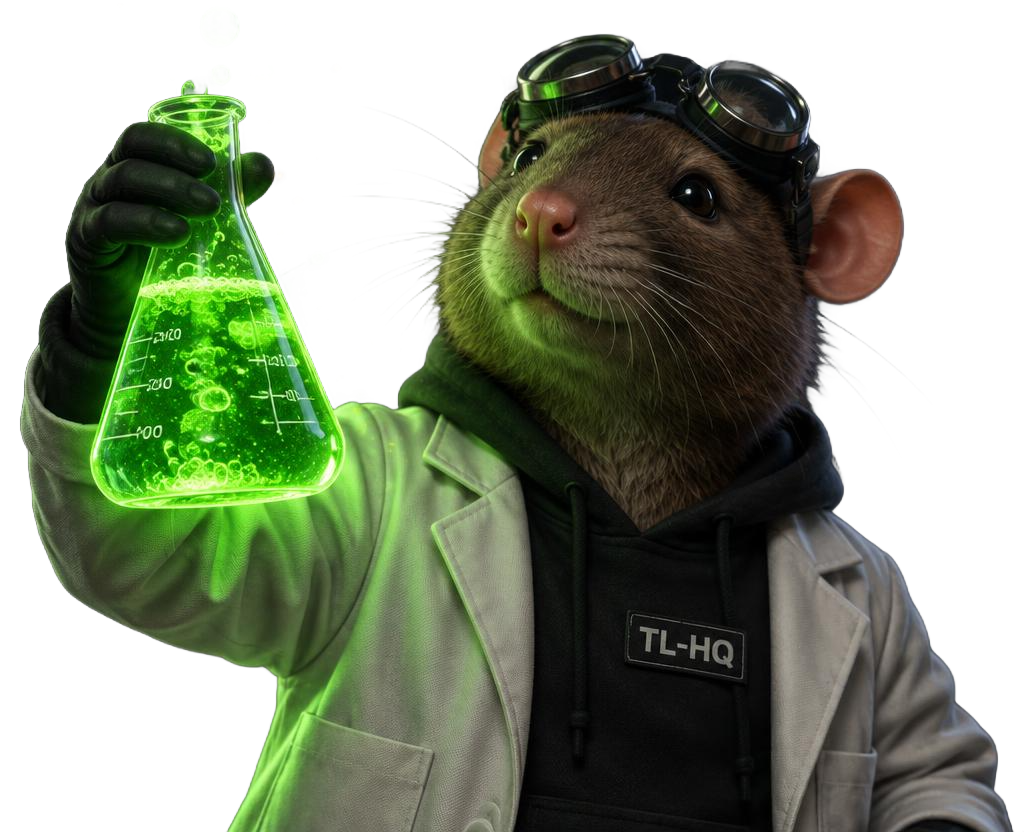
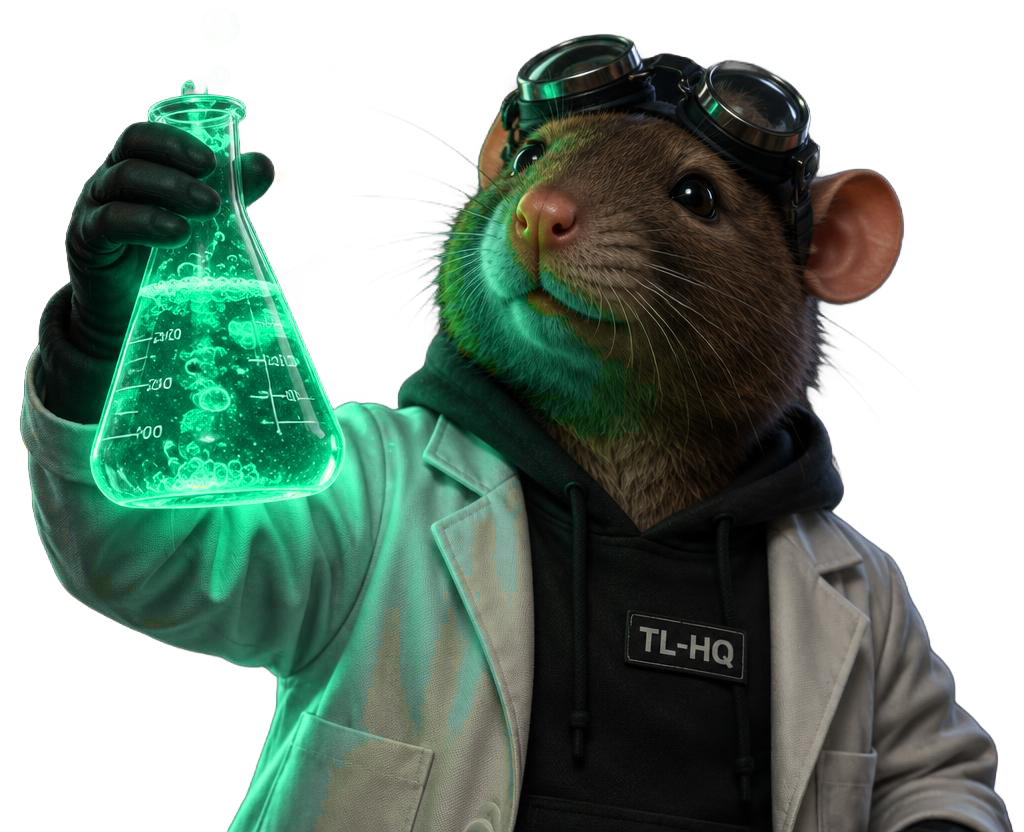
feat: recolor hero image flask and vapors to match theme toxic emerald green with matching glow effect

Changed region(s): [[0.0, 0.0625, 0.625, 1.0], [0.6875, 0.125, 0.7188, 0.1562]]

diff --git a/PROJECT DEV/src/components/HeroTerminal.tsx b/PROJECT DEV/src/components/HeroTerminal.tsx
@@ -105,24 +105,24 @@ export const HeroTerminal: React.FC = () => {
             </div>
           </div>
 
-          {/* Right Column (6 cols): Transparent Cutout Hero Rat Image with Toxic Beaker Green Glow Effect */}
+          {/* Right Column (6 cols): Transparent Cutout Hero Rat Image with Toxic Beaker Green Glow Effect (Theme Emerald/Mint #34D399) */}
           <div className="lg:col-span-6 flex items-end justify-center">
             <div className="relative w-full flex items-end justify-center">
               {/* Radioactive Beaker Toxic Glow Behind Hero Image */}
               <div
                 aria-hidden="true"
-                className="absolute inset-0 max-w-[460px] mx-auto rounded-full pointer-events-none"
+                className="absolute inset-0 max-w-[480px] mx-auto rounded-full pointer-events-none"
                 style={{
                   background:
-                    'radial-gradient(circle at 55% 55%, rgba(77, 254, 21, 0.42) 0%, rgba(118, 255, 50, 0.22) 35%, rgba(77, 254, 21, 0.08) 60%, transparent 75%)',
-                  filter: 'blur(50px)',
-                  transform: 'scale(0.95)',
+                    'radial-gradient(circle at 55% 55%, rgba(52, 211, 153, 0.48) 0%, rgba(110, 231, 183, 0.28) 35%, rgba(16, 185, 129, 0.12) 60%, transparent 75%)',
+                  filter: 'blur(55px)',
+                  transform: 'scale(0.98)',
                 }}
               />
               <img
                 src="/images/trenchlabs-hero-removebg.png"
                 alt="TrenchLabs Rat Scientist holding toxic green Erlenmeyer flask"
-                className="relative z-10 w-full h-auto max-h-[500px] object-contain object-bottom block select-none drop-shadow-[0_0_28px_rgba(77,254,21,0.5)] drop-shadow-[0_0_60px_rgba(77,254,21,0.25)]"
+                className="relative z-10 w-full h-auto max-h-[500px] object-contain object-bottom block select-none drop-shadow-[0_0_32px_rgba(52,211,153,0.55)] drop-shadow-[0_0_75px_rgba(52,211,153,0.28)]"
               />
             </div>
           </div>
